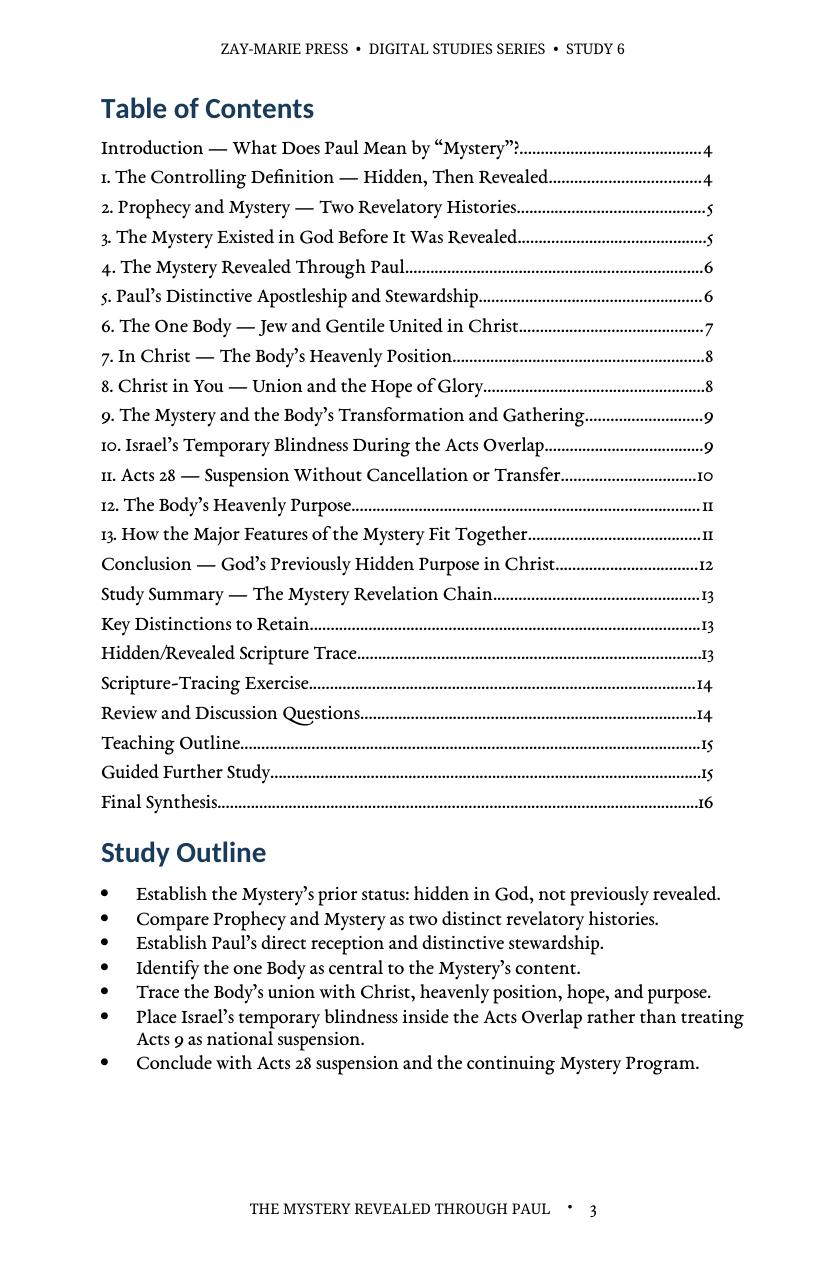
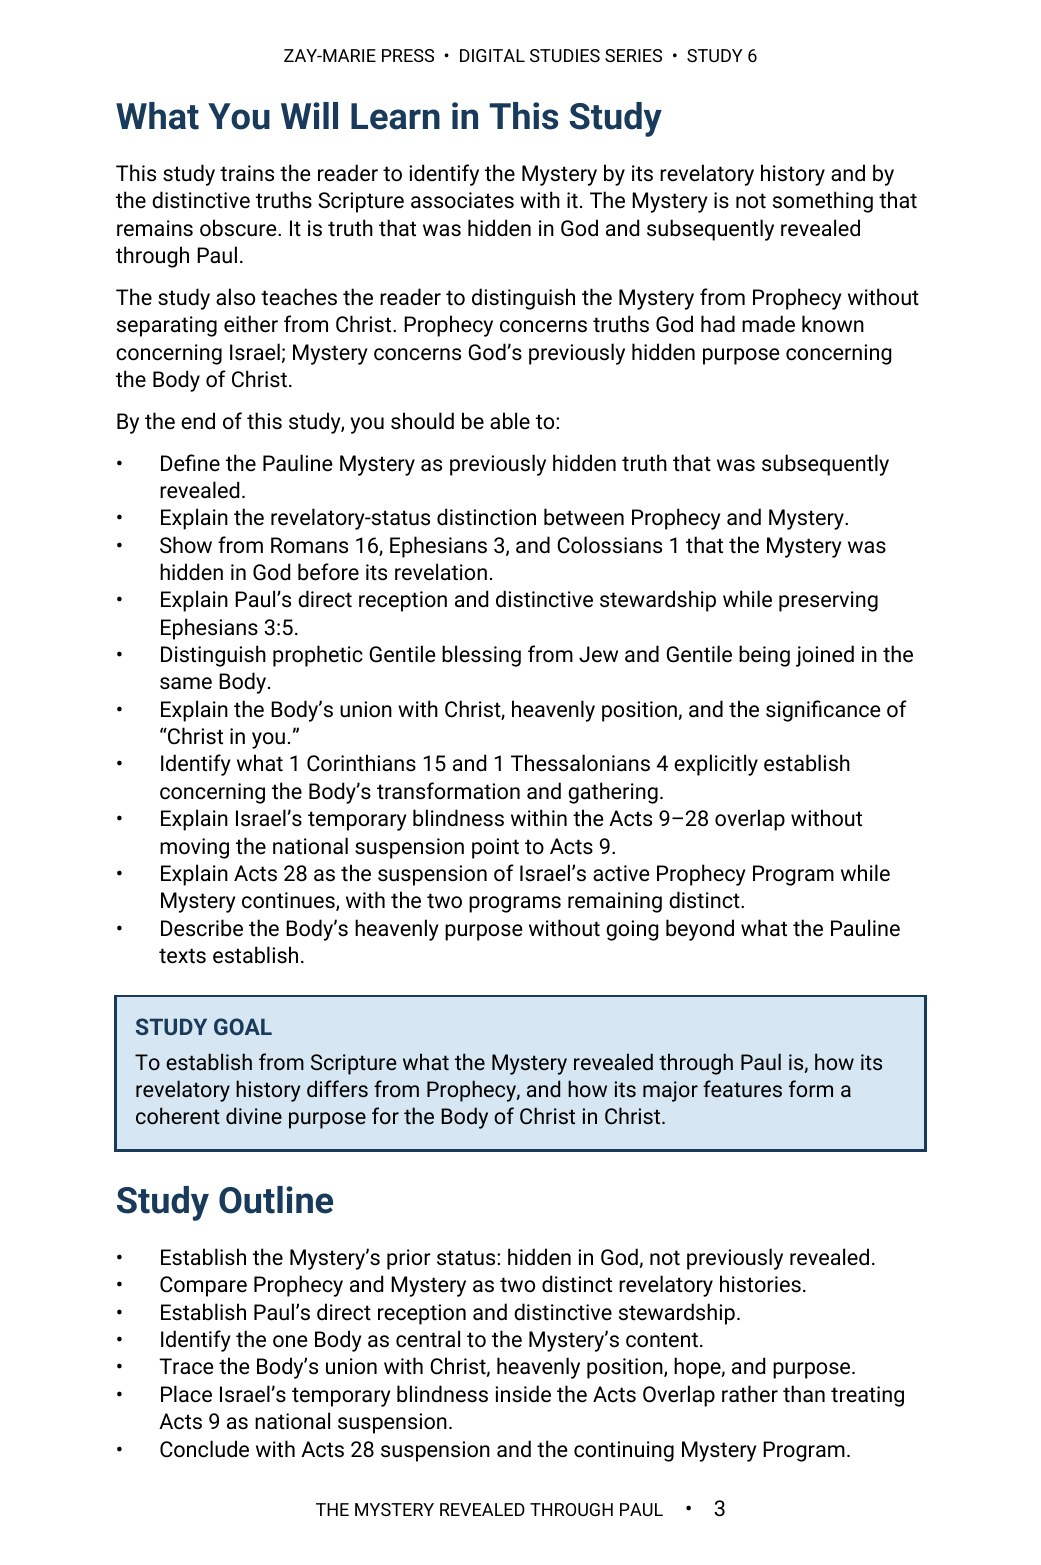
Study 6: Roboto rebuild to Master Standard v1.30; preview strip to three cards; tracker v1.30
Claude-Session: https://claude.ai/code/session_01TLNFW47XCW6YAMUxScR3v4

Changed region(s): [[0.0929, 0.0309, 0.8976, 0.9881], [0.7429, 0.9264, 0.8048, 0.9572]]

diff --git a/study-06-the-mystery-revealed-through-paul.html b/study-06-the-mystery-revealed-through-paul.html
@@ -14,6 +14,6 @@
 <section class="detail-section soft"><div class="wrap"><div class="eyebrow">WHAT YOU’LL STUDY</div><h2>Follow the Mystery Revelation Chain</h2><div class="study-points"><div class="study-point"><h3>Hidden, Then Revealed</h3><p>Define Mystery by its revelatory history rather than by ordinary usage.</p></div><div class="study-point"><h3>Prophecy and Mystery</h3><p>Compare what God spoke through the prophets with what He kept secret before revealing it through Paul.</p></div><div class="study-point"><h3>Paul’s Reception and Stewardship</h3><p>Establish Paul’s direct reception and distinctive stewardship while preserving Ephesians 3:5.</p></div><div class="study-point"><h3>The One Body in Christ</h3><p>Examine how Jew and Gentile are united in one Body without turning Israel into an enlarged Church.</p></div><div class="study-point"><h3>Hope, Position, and Purpose</h3><p>Follow the Mystery’s connection to heavenly position, Christ in you, transformation, gathering, and future purpose.</p></div><div class="study-point"><h3>Acts 9–28 and Acts 28</h3><p>Place Mystery within the overlap and distinguish its beginning at Acts 9 from Israel’s suspension at Acts 28.</p></div></div></div></section>
 <section class="detail-section cream"><div class="wrap"><div class="eyebrow">KEY SCRIPTURES</div><h2>Examine the Passages for Yourself</h2><div class="scripture-grid"><div class="scripture-card"><h3>Acts 3:21</h3><p>Identifies Prophecy as what God spoke through the prophets since the world began.</p></div><div class="scripture-card"><h3>Romans 16:25–26</h3><p>Describes Mystery as truth kept secret since the world began and revealed through Paul.</p></div><div class="scripture-card"><h3>Galatians 1:11–17</h3><p>Establishes Paul’s direct reception of the revelation entrusted to him.</p></div><div class="scripture-card"><h3>Ephesians 2:14–16; 3:2–10</h3><p>Explains the one Body, Paul’s stewardship, and the Body’s heavenly purpose.</p></div><div class="scripture-card"><h3>Colossians 1:25–27</h3><p>Joins the revelation of Mystery with Christ in you and the hope of glory.</p></div><div class="scripture-card"><h3>Ephesians 1:3; 2:6</h3><p>Connects the Body’s blessings and position with the heavenly places in Christ.</p></div><div class="scripture-card"><h3>1 Corinthians 15:51–52; 1 Thessalonians 4:16–17</h3><p>Establishes transformation, gathering, and enduring relationship with Christ.</p></div><div class="scripture-card"><h3>Acts 28:25–28</h3><p>Marks the suspension boundary for Israel’s active Prophecy Program while Mystery continues.</p></div></div></div></section>
 <section class="detail-section"><div class="wrap"><div class="eyebrow">FROM THE STUDY</div><h2>Hidden in God, Revealed Through Paul</h2><div class="excerpt"><blockquote>“The Mystery is God’s previously hidden purpose in Christ concerning the Body of Christ, subsequently revealed through Paul.”</blockquote><p>Its revelation does not turn previously hidden truth into previously revealed truth. The Mystery identifies a distinct purpose in Christ while allowing Israel’s prophetic promises and calling to remain exactly where Scripture places them.</p></div></div></section>
-<section class="detail-section soft"><div class="wrap"><div class="eyebrow">A LOOK INSIDE</div><h2>Preview the Study Before You Purchase</h2><p class="preview-instruction">Click any page to enlarge it for reading.</p><div class="preview-grid"><div class="preview-card"><a class="preview-image-link" data-preview-lightbox href="assets/study-06-page-3.jpg"><img src="assets/study-06-page-3.jpg" alt="Study 6 interior preview — page 3, table of contents and study outline"/></a><div class="page-no">Page 3</div><h3>Study Outline</h3><p>Review the Mystery’s central features and the complete teaching sequence.</p></div><div class="preview-card"><a class="preview-image-link" data-preview-lightbox href="assets/study-06-page-6.jpg"><img src="assets/study-06-page-6.jpg" alt="Study 6 interior preview — page 6, Mystery revealed through Paul"/></a><div class="page-no">Page 6</div><h3>Revealed Through Paul</h3><p>Examine Paul’s direct reception and distinctive stewardship of the Mystery.</p></div><div class="preview-card"><a class="preview-image-link" data-preview-lightbox href="assets/study-06-page-10.jpg"><img src="assets/study-06-page-10.jpg" alt="Study 6 interior preview — page 10, Acts Overlap and Acts 28"/></a><div class="page-no">Page 10</div><h3>Acts Overlap and Acts 28</h3><p>See why Mystery begins at Acts 9 and why Israel’s Prophecy Program is suspended at Acts 28.</p></div><div class="preview-card"><a class="preview-image-link" data-preview-lightbox href="assets/study-06-page-13.jpg"><img src="assets/study-06-page-13.jpg" alt="Study 6 interior preview — page 13, Mystery Revelation Chain"/></a><div class="page-no">Page 13</div><h3>Mystery Revelation Chain</h3><p>Review the study summary, key distinctions, and Hidden/Revealed Scripture Trace.</p></div></div></div></section>
+<section class="detail-section soft"><div class="wrap"><div class="eyebrow">A LOOK INSIDE</div><h2>Preview the Study Before You Purchase</h2><p class="preview-instruction">Click any page to enlarge it for reading.</p><div class="preview-grid"><div class="preview-card"><a class="preview-image-link" data-preview-lightbox href="assets/study-06-page-2.jpg"><img src="assets/study-06-page-2.jpg" alt="Study 6 interior preview — page 2, table of contents"/></a><div class="page-no">Page 2</div><h3>Table of Contents</h3><p>See the full structure of the study, from the introduction through the final synthesis.</p></div><div class="preview-card"><a class="preview-image-link" data-preview-lightbox href="assets/study-06-page-3.jpg"><img src="assets/study-06-page-3.jpg" alt="Study 6 interior preview — page 3, what you will learn"/></a><div class="page-no">Page 3</div><h3>What You Will Learn</h3><p>See the study’s goals for identifying the Mystery by its revelatory history and the outline that carries the study forward.</p></div><div class="preview-card"><a class="preview-image-link" data-preview-lightbox href="assets/study-06-page-6.jpg"><img src="assets/study-06-page-6.jpg" alt="Study 6 interior preview — page 6, Mystery revealed through Paul"/></a><div class="page-no">Page 6</div><h3>Revealed Through Paul</h3><p>Examine Paul’s direct reception and distinctive stewardship of the Mystery.</p></div></div></div></section>
 <section class="detail-section"><div class="wrap"><div class="eyebrow">WHAT’S INCLUDED</div><h2>A Focused Study Built for<br/>Understanding and Teaching</h2><div class="includes-grid"><div class="include-item"><h3>16-Page In-Depth Biblical Study</h3><p>A sustained biblical case for the Mystery’s revelatory history and major features in Christ.</p></div><div class="include-item"><h3>13 Core Teaching Sections</h3><p>Move from hidden and revealed truth through the one Body, Acts Overlap, and heavenly purpose.</p></div><div class="include-item"><h3>Mystery Revelation Chain</h3><p>See how hidden truth, revelation through Paul, the one Body, hope, and purpose fit together.</p></div><div class="include-item"><h3>Hidden/Revealed Scripture Trace</h3><p>Build the cumulative biblical case from the language of what was spoken, hidden, and made known.</p></div><div class="include-item"><h3>18 Review Questions</h3><p>Test the study’s controls for Paul’s stewardship, the one Body, overlap, and Acts 28.</p></div><div class="include-item"><h3>Teaching Outline</h3><p>A ready framework for presenting the Mystery’s revelation, features, and interpretive controls.</p></div><div class="include-item"><h3>Eight Guided Investigations</h3><p>Study the texts for revelation, one Body, hope, Israel’s blindness, overlap, and heavenly purpose.</p></div><div class="include-item"><h3>Final Synthesis Exercise</h3><p>Write a two- to three-page explanation of the Mystery and its relation to Prophecy.</p></div></div></div></section>
 <section class="detail-section cream"><div class="wrap"><div class="final-buy"><div><div class="eyebrow">STUDY 6 · DIGITAL STUDY</div><h2>The Mystery Revealed Through Paul</h2><p>16-page digital PDF · For personal use</p></div><div class="final-offer"><div class="detail-price">$5.99</div><span class="detail-button pending" aria-disabled="true">Get the Study</span></div></div><a class="back-link" href="digital-studies.html">← Back to All Digital Studies</a></div></section><section class="study-method-course-bridge"><div class="wrap"><div class="study-method-course-panel"><div><div class="eyebrow">BUILD THE INTERPRETIVE METHOD</div><h2>Want More Than a Focused Study?</h2><p>Digital Studies examine particular biblical subjects and difficult passages. The 40-lesson Biblical Hermeneutics course teaches a complete, repeatable method for establishing meaning in context, determining proper assignment, and making responsible application.</p></div><a class="btn btn-primary" href="biblical-hermeneutics-course.html">BIBLICAL HERMENEUTICS COURSE</a></div></div></section></main><div class="preview-lightbox" id="preview-lightbox" role="dialog" aria-modal="true" aria-label="Enlarged study page preview"><button class="preview-lightbox-close" type="button" aria-label="Close enlarged preview">×</button><img src="" alt=""/><div class="preview-lightbox-hint">Scroll to read the full page · Press Esc or click outside the page to close</div></div><footer class="site-footer"><div class="wrap footer-grid"><div class="footer-about"><h3>Zay-Marie Press</h3><p class="footer-tagline"><em>Where the Bible Means What It Says.</em></p><p>Zay-Marie Press is a Christian theological publisher dedicated to producing doctrinally precise, carefully structured biblical resources that equip pastors, teachers, and serious students with clarity, depth, and Scripture-anchored truth.</p><p><a href="https://zaymariepress.com">zaymariepress.com</a><br/><a href="mailto:info@zaymariepress.com">info@zaymariepress.com</a></p></div><div class="footer-column"><h3>Explore</h3><div class="footer-links-stacked"><a href="books.html">Books</a><br/><a href="series.html">Series</a><br/><a href="biblical-hermeneutics-course.html">Course</a><br/><a href="digital-studies.html">Digital Studies</a><br/><a href="resources.html">Resources</a><br/><a href="bible-book-summaries.html">Bible Book Summaries</a><br/><a href="doctrinal-packets.html">Doctrinal Packets</a><br/><a href="historical-drift.html">Historical Drift</a><br/><a href="about.html">About</a><br/><a href="contact.html">Contact</a></div></div><div class="footer-column"><h3>Reader Support</h3><div class="footer-links-stacked"><a href="reader-support.html#faq">FAQ</a><br/><a href="reader-support.html#shipping-returns">Shipping &amp; Returns</a><br/><a href="reader-support.html#digital-downloads">Digital Downloads</a><br/><a href="reader-support.html#contact-support">Contact Support</a></div></div><div class="footer-column"><h3>Acts Overlap</h3><p><strong>Acts Overlap Theology Series</strong></p><p><em>Two Distinct Streams. One Overlap.</em></p><p><a href="series.html">Series Overview</a></p></div></div><div class="wrap footer-bottom">© 2026 Zay-Marie Press. All rights reserved.</div></footer><script src="site.js"></script><script>(function(){var box=document.getElementById("preview-lightbox"),img=box.querySelector("img"),close=box.querySelector(".preview-lightbox-close"),hint=box.querySelector(".preview-lightbox-hint"),hintTimer;function shut(){clearTimeout(hintTimer);box.classList.remove("open");hint.classList.remove("fade");document.body.style.overflow="";img.src=""}document.querySelectorAll("[data-preview-lightbox]").forEach(function(a){a.addEventListener("click",function(e){e.preventDefault();clearTimeout(hintTimer);img.src=a.getAttribute("href");img.alt=a.querySelector("img").alt;hint.classList.remove("fade");box.classList.add("open");document.body.style.overflow="hidden";box.scrollTop=0;hintTimer=setTimeout(function(){hint.classList.add("fade")},3000)})});close.addEventListener("click",shut);box.addEventListener("click",function(e){if(e.target===box)shut()});document.addEventListener("keydown",function(e){if(e.key==="Escape"&&box.classList.contains("open"))shut()})})();</script></body></html>

diff --git a/controlling-documents/Digital_Studies_PAM_Audit_v1.30.md b/controlling-documents/Digital_Studies_PAM_Audit_v1.30.md
@@ -1,4 +1,4 @@
-# Digital Studies vs. PAM Audit — v1.29
+# Digital Studies vs. PAM Audit — v1.30
 
 Working tracker and instructions for checking the Digital Studies against the Program Assignment Manual (PAM), §XIX of `Framework_Control_Document_Acts_Overlap.docx`, including its "Section 4 — Publisher Rulings". Same `_vX.Y` convention as the other controlling documents: update the status table and changelog as the audit proceeds, bump the version, and rename the file to match.
 
@@ -256,3 +256,4 @@ Study 15 PDF not yet supplied. Typography: none of Studies 2, 3, 6, 8 is in EB G
 - v1.27 (2026-09-30): Master Standard v1.29 (publisher directive): Table of Contents entries use the body-paragraph spacing (6 pt after, 1.08 line spacing) instead of compressed spacing, as first shown in Study 5; applies from Study 6 forward, and the TOCs of Studies 1-5 and 9 are not reopened. Study 5 rebuilt in Roboto to Master Standard v1.28/v1.29 as a review copy (16 pages, five boxed callouts, review questions 1-15), awaiting the publisher's approval; not pushed.
 - v1.28 (2026-09-30): Study 5 approved by the publisher ("i approve study 5") and pushed: Roboto rebuild to Master Standard v1.28/v1.29, 16 pages (cover plus 15 interior), five boxed callouts (Study Goal, Interpretive Control in the Introduction, Controlling Definition, Acts Overlap Control, Final Control; the other 17 became body paragraphs with a bold run-in lead), TOC at body-paragraph spacing, review questions 1-15, copyright in the end imprint, margins kept near the supplied 0.67 in. Website: preview strip kept at three cards but re-ordered and re-cut from the rebuilt PDF (Page 2 Table of Contents, Page 3 What You Will Learn, Page 8 Hope, Gathering, and Transformation; images at 1041 x 1565); old unreferenced images for pages 11 and 16 removed; page count unchanged at 16. Not checked live (Cloudflare Access sign-in); checked locally at 1280, 390, 360 and 320 px. The publisher swaps the purchasable PDF himself.
 - v1.29 (2026-09-30): Master Standard v1.30 (publisher directive): Heading 1 is 12 pt space-before and 8 pt space-after, replacing 14 pt before; chosen after a side-by-side of Study 6 page 5 at 12 and 14 pt. Applies from Study 6 forward; the publisher said not to go back and fix earlier studies, so Studies 1-5 and 9 stay at 14 pt and are not reopened for it. Heading 2 (10/5) and body (6 pt after, 1.08) unchanged. Study 6 rebuilt in Roboto to v1.28/v1.29/v1.30 as a review copy (16 pages, five boxed callouts, TOC at body spacing, Heading 1 at 12 pt, stale hand-set spacing from the source stripped): awaiting the publisher's approval, not pushed. Separately, the spacing-corrected re-cuts of Studies 3, 4 and 5 (stale source spacing stripped; 18/18/16 pages) were delivered for review; the publisher said the studies are good as they are, so they are not pushed unless he says so.
+- v1.30 (2026-09-30): Study 6 approved by the publisher ("i approve") and pushed: Roboto rebuild to Master Standard v1.28/v1.29/v1.30, 16 pages (cover plus 15 interior), five boxed callouts (Study Goal, Interpretive Control in the Introduction, Controlling Definition, Acts Overlap Control, Final Control; the others became body paragraphs with a bold run-in lead), TOC first at body-paragraph spacing, Heading 1 at 12 pt before / 8 pt after, review questions 1-18, copyright in the end imprint. PAM review: clear. Website: preview strip reduced from four cards to three (Page 2 Table of Contents, Page 3 What You Will Learn, Page 6 Revealed Through Paul; images at 1041 x 1565); old page 10 and 13 images removed; page count unchanged at 16 in site.js. Checked locally at 1280, 390, 360 and 320 px (no overflow; only the two expected empty lightbox image entries). Not checked live (Cloudflare Access sign-in). The publisher swaps the purchasable PDF himself. Next file needed: Study 7 DOCX.
